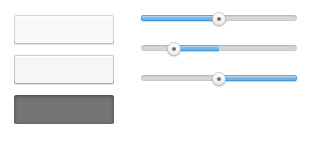
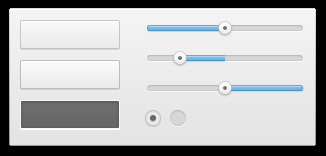
documentation

diff --git a/README.md b/README.md
@@ -5,11 +5,20 @@ Gosu-Cloudy-Ui
 
 Drawing UI Kit based on http://kbsportfolio.com/2011/10/16/resource-for-designer-cloudy-ui-kit/
 
-state is either :normal, :hover or :active
+Button states are :normal, :hover or :active
 
+    CloudyUi::Button.draw x, y, z, width, height, state
+    
 progress slided on slider in range 0..1
 
 center of blue selection on slider in range 0..1
-
-    CloudyUi::Button.draw x, y, z, width, height, state
+    
     CloudyUi::Slider.draw x, y, z, width, progress, center=0
+
+RadioButton states are :full and :empty
+
+    CloudyUi::RadioButtondraw x, y, z, state
+
+A Window, an area for the ui elements
+    
+    CloudyUi::Window.draw window, x, y, z, width, height
